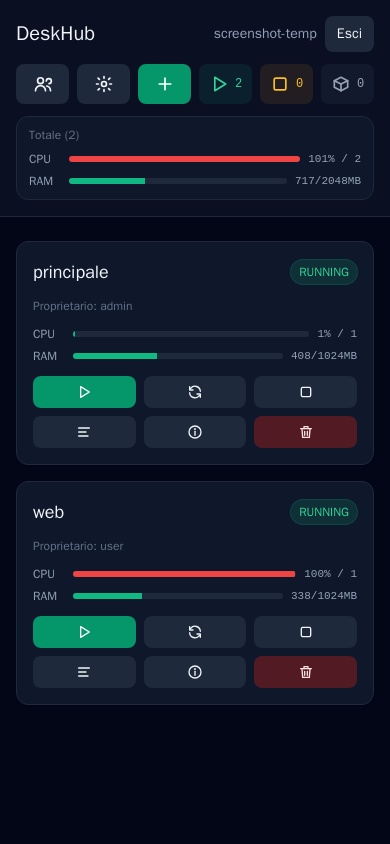
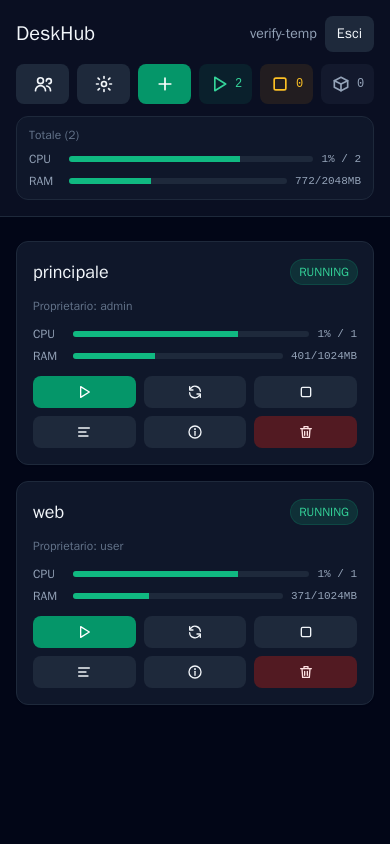
Fix barra CPU: normalizzata al limite assegnato, non al valore grezzo
cpu_percent di Docker e' relativo a un core intero, non al limite del
desktop: sommando piu' desktop (o con un limite > 1 core su un singolo
desktop) il valore supera facilmente 100, la barra restava sempre piena e
rossa anche quando la flotta era ben sotto il suo budget totale. La RAM
gia' faceva la normalizzazione corretta (valore/limite*100), la CPU no:
ora anche la CPU divide per max_cpus prima di passarla alla barra
(FleetUsageBars.jsx, DesktopCard.jsx). Il testo continua a mostrare il
valore grezzo ("160% / 2"), e' quello il dato utile da leggere.

Screenshot del README rigenerati di conseguenza.

diff --git a/frontend/src/components/FleetUsageBars.jsx b/frontend/src/components/FleetUsageBars.jsx
@@ -35,6 +35,13 @@ export default function FleetUsageBars() {
   const runningCount = usage?.running_count ?? 0;
   const cpuPercent = usage?.cpu_percent ?? null;
   const maxCpus = usage?.max_cpus ?? 0;
+  // cpu_percent e' la somma dei cpu_percent dei singoli desktop, ognuno
+  // relativo a un core intero (Docker): con 2 desktop assegnati a 1 core
+  // ciascuno e all'80% a testa il totale e' 160%. Per la barra va rapportato
+  // a maxCpus (somma dei core assegnati), altrimenti supera sempre 100 non
+  // appena gira piu' di un desktop e la barra sembra sempre piena/rossa
+  // anche quando la flotta e' ben sotto il suo budget totale.
+  const cpuBarPercent = cpuPercent != null && maxCpus > 0 ? (cpuPercent / maxCpus) * 100 : cpuPercent;
   const cpuTail =
     cpuPercent == null ? "—" : `${Math.round(cpuPercent)}%${maxCpus > 0 ? ` / ${maxCpus}` : ""}`;
 
@@ -48,7 +55,7 @@ export default function FleetUsageBars() {
       <span className="shrink-0 text-xs text-slate-500">Totale ({runningCount})</span>
       <div className="flex flex-col gap-1.5 sm:min-w-0 sm:flex-1 sm:flex-row sm:items-center sm:gap-3">
         <div className="min-w-0 sm:flex-1">
-          <UsageBar label="CPU" percent={cpuPercent} tail={cpuTail} />
+          <UsageBar label="CPU" percent={cpuBarPercent} tail={cpuTail} />
         </div>
         <div className="min-w-0 sm:flex-1">
           <UsageBar label="RAM" percent={memPercent} tail={memTail} />

diff --git a/frontend/src/components/DesktopCard.jsx b/frontend/src/components/DesktopCard.jsx
@@ -141,6 +141,13 @@ export default function DesktopCard({ desktop, isAdmin, onStart, onStop, onResta
   }
 
   const cpuPercent = usage?.cpu_percent ?? null;
+  // cpu_percent di Docker e' relativo a un core intero (un desktop che usa
+  // 2 core pieni mostra ~200%), non al limite assegnato al desktop: per la
+  // barra (colore/riempimento) va rapportato a max_cpus, non usato grezzo,
+  // altrimenti un limite > 1 core la fa apparire piena/rossa molto prima
+  // del reale. Il testo invece mostra il valore grezzo apposta, e' quello
+  // il dato utile da leggere.
+  const cpuBarPercent = cpuPercent != null && max_cpus > 0 ? (cpuPercent / max_cpus) * 100 : cpuPercent;
   const cpuTail =
     cpuPercent == null ? "—" : max_cpus > 0 ? `${Math.round(cpuPercent)}% / ${max_cpus}` : `${Math.round(cpuPercent)}%`;
 
@@ -163,7 +170,7 @@ export default function DesktopCard({ desktop, isAdmin, onStart, onStop, onResta
 
       {status === "RUNNING" && (
         <div className="flex flex-col gap-1.5">
-          <UsageBar label="CPU" percent={cpuPercent} tail={cpuTail} />
+          <UsageBar label="CPU" percent={cpuBarPercent} tail={cpuTail} />
           <UsageBar label="RAM" percent={memPercent} tail={memTail} />
         </div>
       )}

diff --git a/README.md b/README.md
@@ -131,8 +131,8 @@ esportare prima di lanciare lo script): `TARGET_DIR`, `DATA_DIR`,
    compose build` prima del resto):
 
    ```bash
-   docker pull ghcr.io/federicocasillo/deskhub-manager@sha256:5622031ca3f6576c1220e2c06819b4addbf41cc4708eaa2ac7b96a748a911445
-   docker tag ghcr.io/federicocasillo/deskhub-manager@sha256:5622031ca3f6576c1220e2c06819b4addbf41cc4708eaa2ac7b96a748a911445 deskhub-manager:latest
+   docker pull ghcr.io/federicocasillo/deskhub-manager@sha256:05cfa08a08cea108f652ffc80fbaa9811469a962e900ebe6a84d031a5248aa9d
+   docker tag ghcr.io/federicocasillo/deskhub-manager@sha256:05cfa08a08cea108f652ffc80fbaa9811469a962e900ebe6a84d031a5248aa9d deskhub-manager:latest
    docker compose up -d
    ```
 
